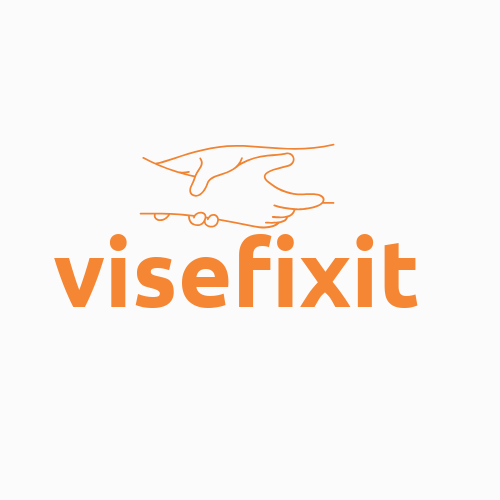
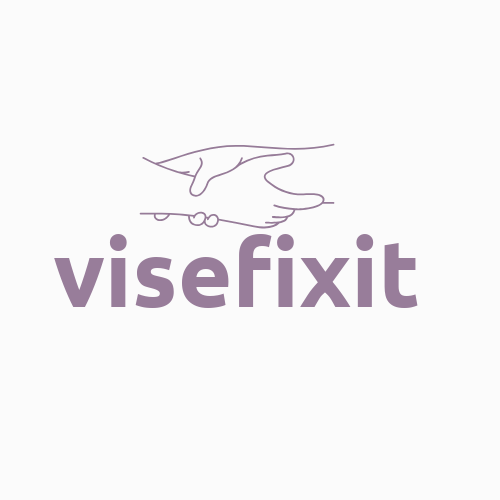
color changes

Changed region(s): [[0.09, 0.27, 0.84, 0.63], [0.3, 0.3, 0.48, 0.39], [0.27, 0.42, 0.48, 0.45]]

diff --git a/src/components/PrimaryHero.jsx b/src/components/PrimaryHero.jsx
@@ -2,7 +2,7 @@ import React from 'react'
 import HeroImage from '../assets/viseFixitHero.png'
 const PrimaryHero = () => {
   return (
-    <div className="h-screen bg-cover bg-center w-[98vw] h-[35vh] flex justify-center items-center "  style={{ backgroundImage: `url(${HeroImage})` }}>
+    <div className="bg-cover bg-center w-[98vw] h-[35vh] flex justify-center items-center "  style={{ backgroundImage: `url(${HeroImage})` }}>
         <div className='text-primaryColor text-2xl'>Lorem ipsum dolor sit amet consectetur adipisicing elit. Ipsum, magni.</div>
       
     </div>

diff --git a/tailwind.config.js b/tailwind.config.js
@@ -7,9 +7,9 @@ export default {
   theme: {
     extend: {
       colors:{
-        'primaryColor':"#F58634",
+        'primaryColor':"#987D9A",
         'secondaryColor':'#282829',
-        'grayColor':'#96989A' 
+        'grayColor':'#EECEB9' 
       }
     },
   },
